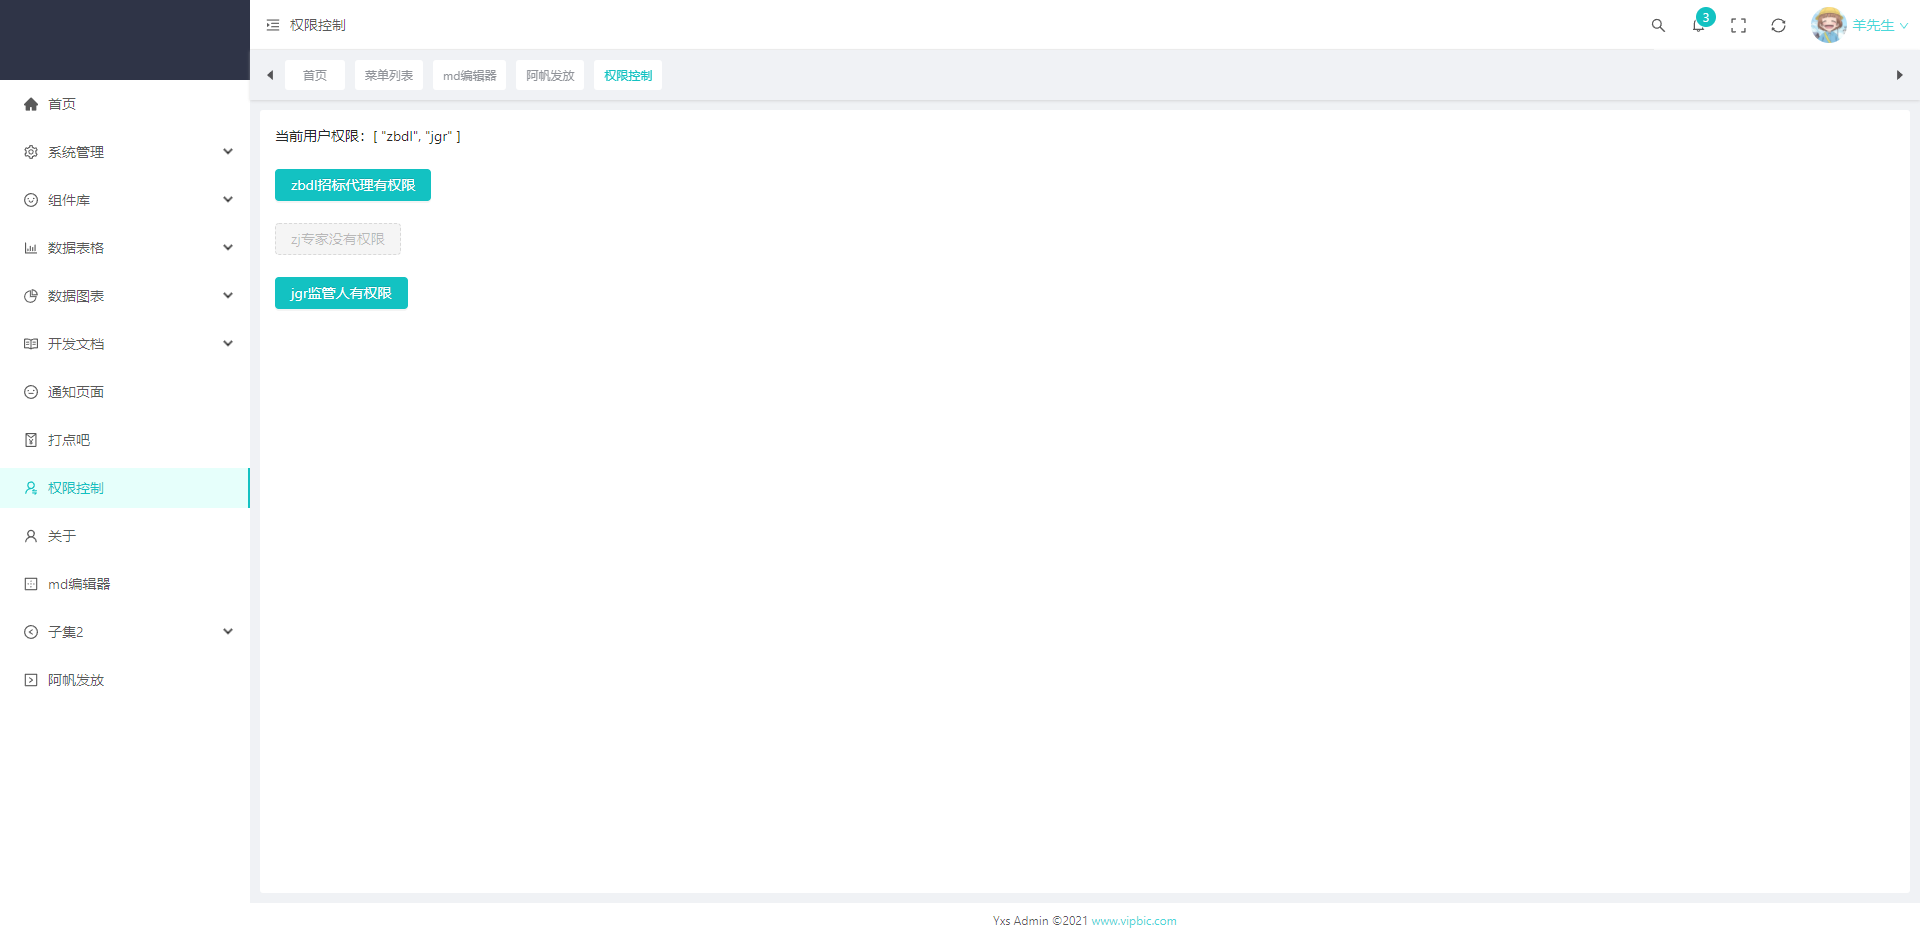
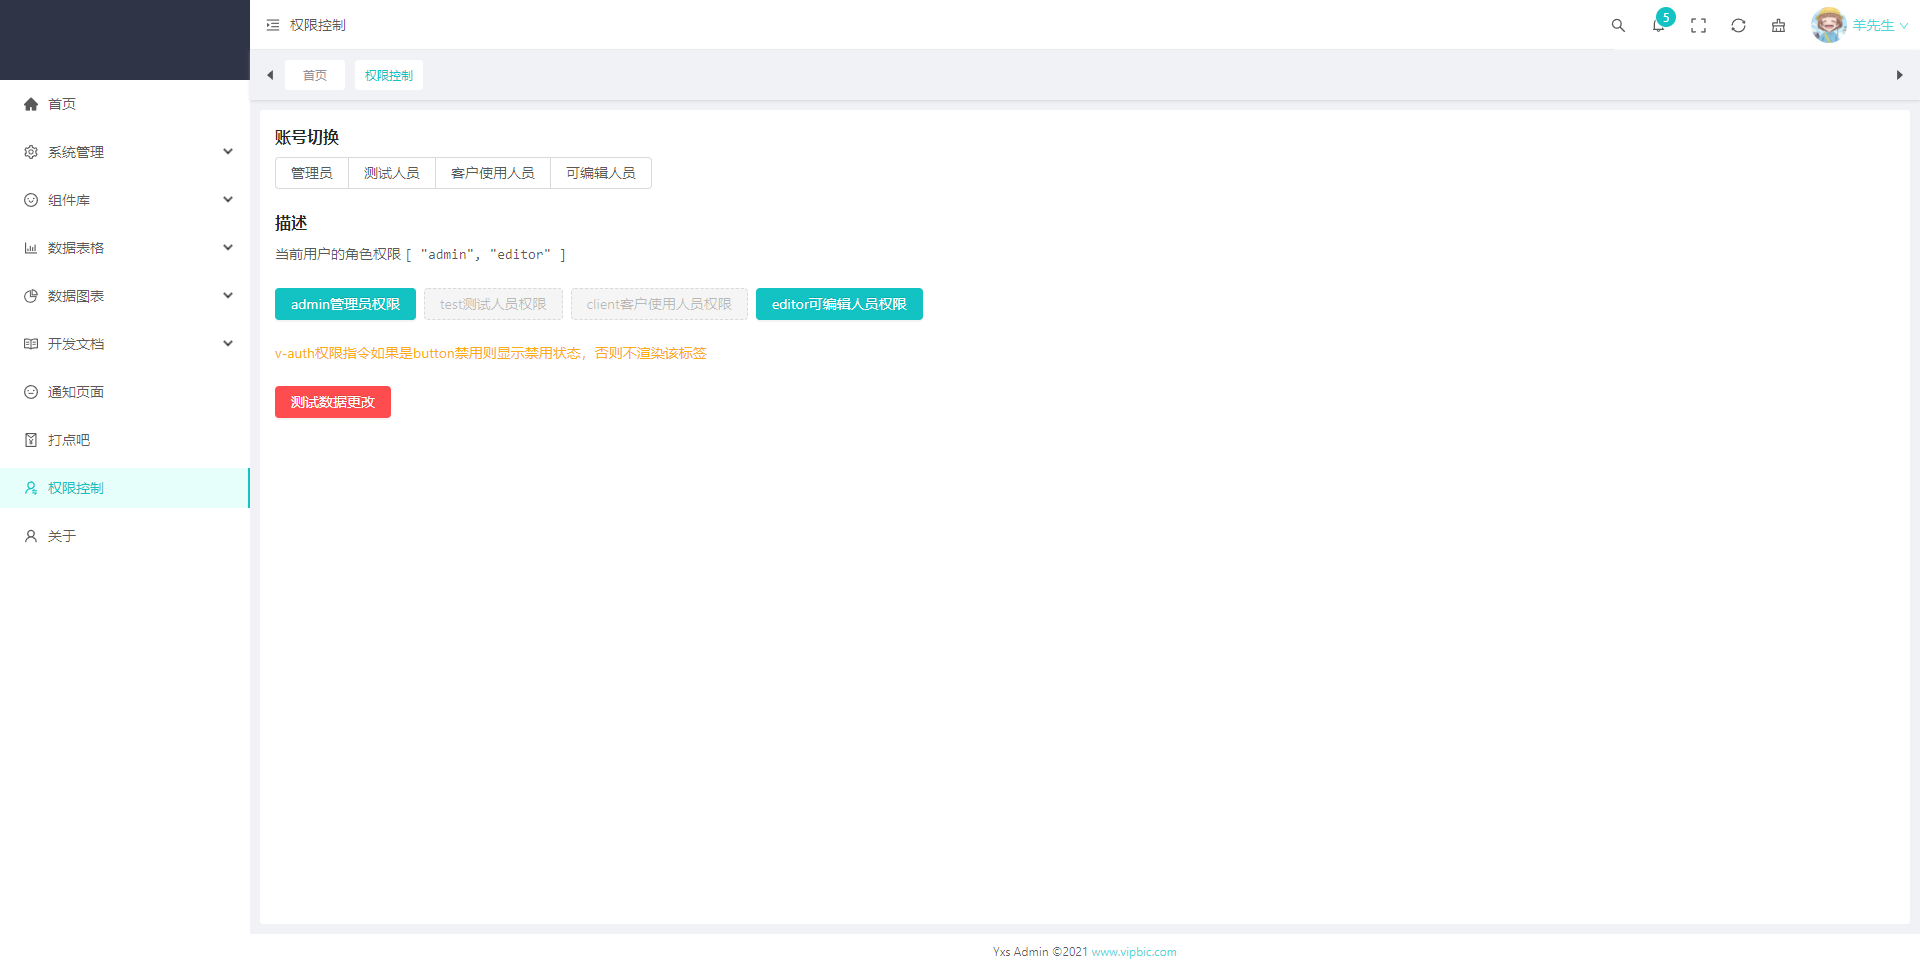
编写vue-vite-admin-ts文档

diff --git a/vue-vite-admin-ts/http.md b/vue-vite-admin-ts/http.md
@@ -73,6 +73,40 @@ router.get('/more/304', function (req, res) {
 
 接口返回 304 状态码，对于默认的请求我们会输出一条错误信息。第二个请求中我们配置了自定义合法状态码规则，区间在 200 和 400 之间，这样就不会报错，而是可以正常输出响应对象。
 
+### 错误重连
+
+这里参考的是[axios请求超时,设置重新请求的完美解决方法](https://github.com/ssttm169/use-axios-well)，代码很简洁简单
+
+```js
+// 如果config不存在或没有设置重试选项，请拒绝
+if (!config || !config.retry) return Promise.reject(error.message);
+
+// 设置用于跟踪重试计数的变量
+config.__retryCount = config.__retryCount || 0;
+
+// 检查重试次数是否达到最大值
+if (config.__retryCount >= config.retry) return Promise.reject(error.message);
+
+// 增加重试次数
+config.__retryCount += 1;
+
+// 创建新的承诺来处理指数倒退
+const backoff = new Promise(function (resolve: any) {
+    setTimeout(function () {
+        resolve();
+    }, config.retryDelay);
+});
+
+// 返回promise，其中调用axios来重试请求
+return backoff.then(function () {
+    return http(config);
+});
+```
+
+### 完整封装
+
+[查看代码](https://github.com/hangjob/vue-vite-admin-ts/blob/master/src/packages/http/request.ts)
+
 > axios-config合并策略，传入的config优先级最高，会覆盖实列化默认的config
 
 ```ts
@@ -85,8 +119,9 @@ import {message as messageModel} from 'ant-design-vue';
 const CancelToken = axios.CancelToken
 const source = CancelToken.source()
 
-const http = axios.create({
-    baseURL: '/api',
+
+const http: any = axios.create({
+    baseURL: httpNetwork.baseURL,
     timeout: httpNetwork.requestTimeout,
     withCredentials: true,
     headers: {
@@ -94,6 +129,9 @@ const http = axios.create({
     },
     cancelToken: source.token
 })
+
+http.defaults.retry = httpNetwork.retry;
+http.defaults.retryDelay = httpNetwork.retryDelay;
 
 
 http.interceptors.request.use((config: any) => {
@@ -105,7 +143,7 @@ http.interceptors.request.use((config: any) => {
         }
     }
     return config;
-}, (error) => {
+}, (error: any) => {
     return Promise.reject(error)
 })
 
@@ -120,12 +158,33 @@ http.interceptors.response.use((res: any) => {
     } else {
         return Promise.reject(res.data);
     }
-}, async (error) => {
-    if (error.response) {
-        const {status, config} = error.response;
-        console.log(status, config.url)
-    }
-    return Promise.reject(error.message);
+}, async (error: any) => {
+
+    const {config} = error.response || {};
+
+    // 如果config不存在或没有设置重试选项，请拒绝
+    if (!config || !config.retry) return Promise.reject(error.message);
+
+    // 设置用于跟踪重试计数的变量
+    config.__retryCount = config.__retryCount || 0;
+
+    // 检查重试次数是否达到最大值
+    if (config.__retryCount >= config.retry) return Promise.reject(error.message);
+
+    // 增加重试次数
+    config.__retryCount += 1;
+
+    // 创建新的Promise来处理
+    const backoff = new Promise(function (resolve: any) {
+        setTimeout(function () {
+            resolve();
+        }, config.retryDelay);
+    });
+
+    // 返回promise，其中调用axios来重试请求
+    return backoff.then(function () {
+        return http(config);
+    });
 })
 
 // 包装url

diff --git a/vue-vite-admin-ts/README.md b/vue-vite-admin-ts/README.md
@@ -8,6 +8,50 @@
 
 [Github](https://github.com/hangjob/vue-vite-admin-ts)
 
+### 安装依赖
+
+!>node.js版本需要大于12，vite的编译环境是12以上的版本
+
+```bash
+npm i
+```
+
+#### 启动应用
+
+```bash
+npm run serve
+```
+
+### 默认应用文件
+
+默认拉取项目完成后，目录下会包含两个入口文件
+
+```js
+// vite.config.ts
+build.rollupOptions = {
+    input: {
+        web: path.resolve(__dirname, 'index.html'),
+        lib: path.resolve(__dirname, 'lib.html')
+    }
+}
+```
+
+在这里的，我个人认为，建议vite把key(web、lib)可也阔以映射成页面路径，从而可以指向共同的页面，然后在不同的引入main.ts
+
+> 该项目是多页面应用文件，默认打开的是index.html，另外个是lib.html
+
+比如：启动完成之后
+
+http://localhost:8290 === http://localhost:8290/index.html
+
+http://localhost:8290/lib.html
+
+!>注意：http://localhost:8290 这样访问需要提供后端服务才能打开
+
+🙂
+
+>http://localhost:8290/lib.html 不需要后端服务也能打开
+
 ### 项目结构
 
 ```
@@ -49,42 +93,4 @@
 |── vite.config.ts                           // vite配置
 |── lib.html                                 // lib.html
 |── index.html                               // index.html
-``` 
-
-### 安装依赖
-
-!>node.js版本需要大于12，vite的编译环境是12以上的版本
-
-```bash
-npm i
 ```
-
-#### 启动应用
-
-```bash
-npm run serve
-```
-
-### 默认应用文件
-
-默认拉取项目完成后，目录下会包含两个入口文件
-
-```js
-// vite.config.ts
-build.rollupOptions = {
-    input: {
-        web: path.resolve(__dirname, 'index.html'),
-        lib: path.resolve(__dirname, 'lib.html')
-    }
-}
-```
-在这里的，我个人认为，建议vite把key(web、lib)可也阔以映射成页面路径，从而可以指向共同的页面，然后在不同的引入main.ts
-
-> 该项目是多页面应用文件，默认打开的是index.html，另外个是lib.html
-
-比如：启动完成之后 
-
-http://localhost:8290
-
-http://localhost:8290/lib.html
-

diff --git a/vue-vite-admin-ts/directives.md b/vue-vite-admin-ts/directives.md
@@ -1,10 +1,11 @@
 ### 使用方式
 
 ```vue
-
-<a-button type="primary" v-auth="['zbdl,jgr']">zbdl，jgr有权限</a-button>
-<a-button type="primary" v-auth="['zj']">zj专家没有权限</a-button>
-<a-button type="primary" v-auth="['jgr']">jgr监管人有权限</a-button>
+<p v-auth="['client']">admin权限控制html标签是否展示</p>
+<a-button type="primary" v-auth="['admin']">admin管理员权限</a-button>
+<a-button type="primary" v-auth="['test']">test测试人员权限</a-button>
+<a-button type="primary" v-auth="['client']">client客户使用人员权限</a-button>
+<a-button type="primary" v-auth="['editor']">editor可编辑人员权限</a-button>
 ```
 
 ![img_2.png](img_2.png)
@@ -15,6 +16,11 @@
 import {App, Directive, DirectiveBinding} from 'vue'
 import store from "@/packages/store";
 
+
+const isButton = (el: Element) => {
+    return el.tagName.toLowerCase() === 'button';
+}
+
 // 权限指令
 function handlePermission(el: Element, binding: DirectiveBinding) {
     const {value, arg} = binding;
@@ -23,12 +29,18 @@ function handlePermission(el: Element, binding: DirectiveBinding) {
         const hasPermission = roles.some((role: any) => {
             return value.includes(role)
         })
+
         if (!hasPermission && arg) {
             return el.parentNode && el.parentNode.removeChild(el) // 条件不成立删除
         }
+
         if (!hasPermission) {
-            el.classList.add('ant-btn-dashed');
-            el.setAttribute("disabled", 'disabled');
+            if (isButton(el)) {
+                el.classList.add('ant-btn-dashed');
+                el.setAttribute("disabled", 'disabled');
+            } else {
+                el.parentNode && el.parentNode.removeChild(el)
+            }
         }
     } else {
         console.error('权限控制使用例子 v-auth="[\'admin\',\'editor\']"')

diff --git a/vue-vite-admin-ts/egg.md b/vue-vite-admin-ts/egg.md
@@ -49,7 +49,25 @@ module.exports = app => {
     });
 };
 ```
->至此，后端服务已经部署完成，剩下的数据逻辑
+
+### 前端代理配置
+
+```js
+export default {
+    host: '0.0.0.0',
+    port: 8290,
+    https: false,
+    proxy: {
+        '^/api': {
+            target: 'http://127.0.0.1:7001',
+            changeOrigin: true,
+            rewrite: (path) => path.replace(/^\/api/, '')
+        }
+    }
+}
+```
+
+> 至此，后端服务已经部署完成，剩下的数据逻辑
 
 在这个vue-vite-admin-ts中后端服务，我写了一个完整的增删的改查，使用的`sequelize`
 ，它可以帮你很好的写sql查询语句，因为它全部帮你封装好了，我们只需要调用即可，比如简单的增删改查，复杂的点的关联查询，一对多，多对一，多对多，多表关联，查插件已经帮我们内置了，我们使用只需要配置关联字段即可
